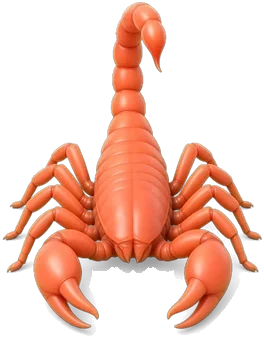
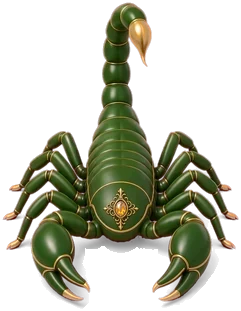
v12: bejeweled scorpions (olive crawler, sapphire giant, teal hatchling, crowned plum queen ~12% larger); smooth fronts, stingers back; 90px top padding

diff --git a/art.js b/art.js
@@ -18,7 +18,7 @@
   const fmt = (n) => (n >= 1e6 ? (n / 1e6).toFixed(n >= 1e7 ? 1 : 2) + 'M' : n >= 1e4 ? (n / 1e3).toFixed(n >= 1e5 ? 0 : 1) + 'K' : String(Math.round(n)));
 
   // ================= RASTER SPRITES (assets/*.webp) with procedural fallback =================
-  const ASSET_V = 11;
+  const ASSET_V = 12;
   const ASSETS = [...Array.from({ length: 12 }, (_, i) => 'cannon' + String(i + 1).padStart(2, '0')),
     'crawler', 'giant', 'queen', 'hatchling', 'eggs', 'orb', 'item_spray', 'item_fire', 'item_super', 'barricade', 'barricade_broken', 'bg', 'tile'];
   const IMG = {};
@@ -248,7 +248,7 @@
     giant:     { shell: '#8e6646', shell2: '#46301c', hi: '#d0a678', belly: '#b88a5e', claw: '#cfa67c', claw2: '#5e3e22', eye: '#ff8a3a', line: '#22140a' },
     queen:     { shell: '#3c3644', shell2: '#141018', hi: '#7a7088', belly: '#c4283a', claw: '#d83c3c', claw2: '#5a0a14', eye: '#ff4a4a', line: '#08060a' },
   };
-  const BUG_BOX = { crawler: [104, 108], hatchling: [84, 84], giant: [190, 124], queen: [190, 140] };
+  const BUG_BOX = { crawler: [104, 108], hatchling: [84, 84], giant: [190, 136], queen: [200, 158] };
   function drawScorpion(g, cx, cy, type, t, sc = 1) {
     if (has(type) && BUG_BOX[type]) {
       const [bw, bh] = BUG_BOX[type], im = IMG[type], breathe = 1 + Math.sin(t * 2.4) * 0.018, sway = Math.sin(t * 1.7) * 0.025;

diff --git a/main.js b/main.js
@@ -4,9 +4,9 @@
   const G = window.SandGame;
   const LANES = G.LANES, ROWS = G.ROWS, POCKET = G.POCKET;
   // ---- logical layout (portrait) ----
-  const W = 540, BASE_H = 1100;
+  const W = 540, BASE_H = 1120;
   const FX = 40, LW = 92, FW = LW * LANES;          // field x-range 40..500
-  const HDR = 132, FY = 212, CH = 84, FB = FY + CH * ROWS; // field rows 212..716 (70px of sand above row 1 so boss tails clear the header)
+  const HDR = 132, FY = 232, CH = 84, FB = FY + CH * ROWS; // field rows 232..736 (90px of sand above row 1 so boss tails clear the header)
   const WC = FB + 30;                                 // barricade centre line
   const TY = FB + 62, SH = 94;                        // tray rows
   const BY = TY + SH * 2 + 14;                        // bottom bar (items + pocket)

diff --git a/index.html b/index.html
@@ -7,7 +7,7 @@
 <meta name="mobile-web-app-capable" content="yes">
 <meta name="theme-color" content="#c98b4a">
 <title>Sandline Siege</title>
-<link rel="stylesheet" href="style.css?v=11">
+<link rel="stylesheet" href="style.css?v=12">
 </head>
 <body>
 <div id="wrap"><canvas id="game"></canvas></div>
@@ -20,9 +20,9 @@
   </div>
 </div>
 
-<script src="game.js?v=11"></script>
-<script src="audio.js?v=11"></script>
-<script src="art.js?v=11"></script>
-<script src="main.js?v=11"></script>
+<script src="game.js?v=12"></script>
+<script src="audio.js?v=12"></script>
+<script src="art.js?v=12"></script>
+<script src="main.js?v=12"></script>
 </body>
 </html>
